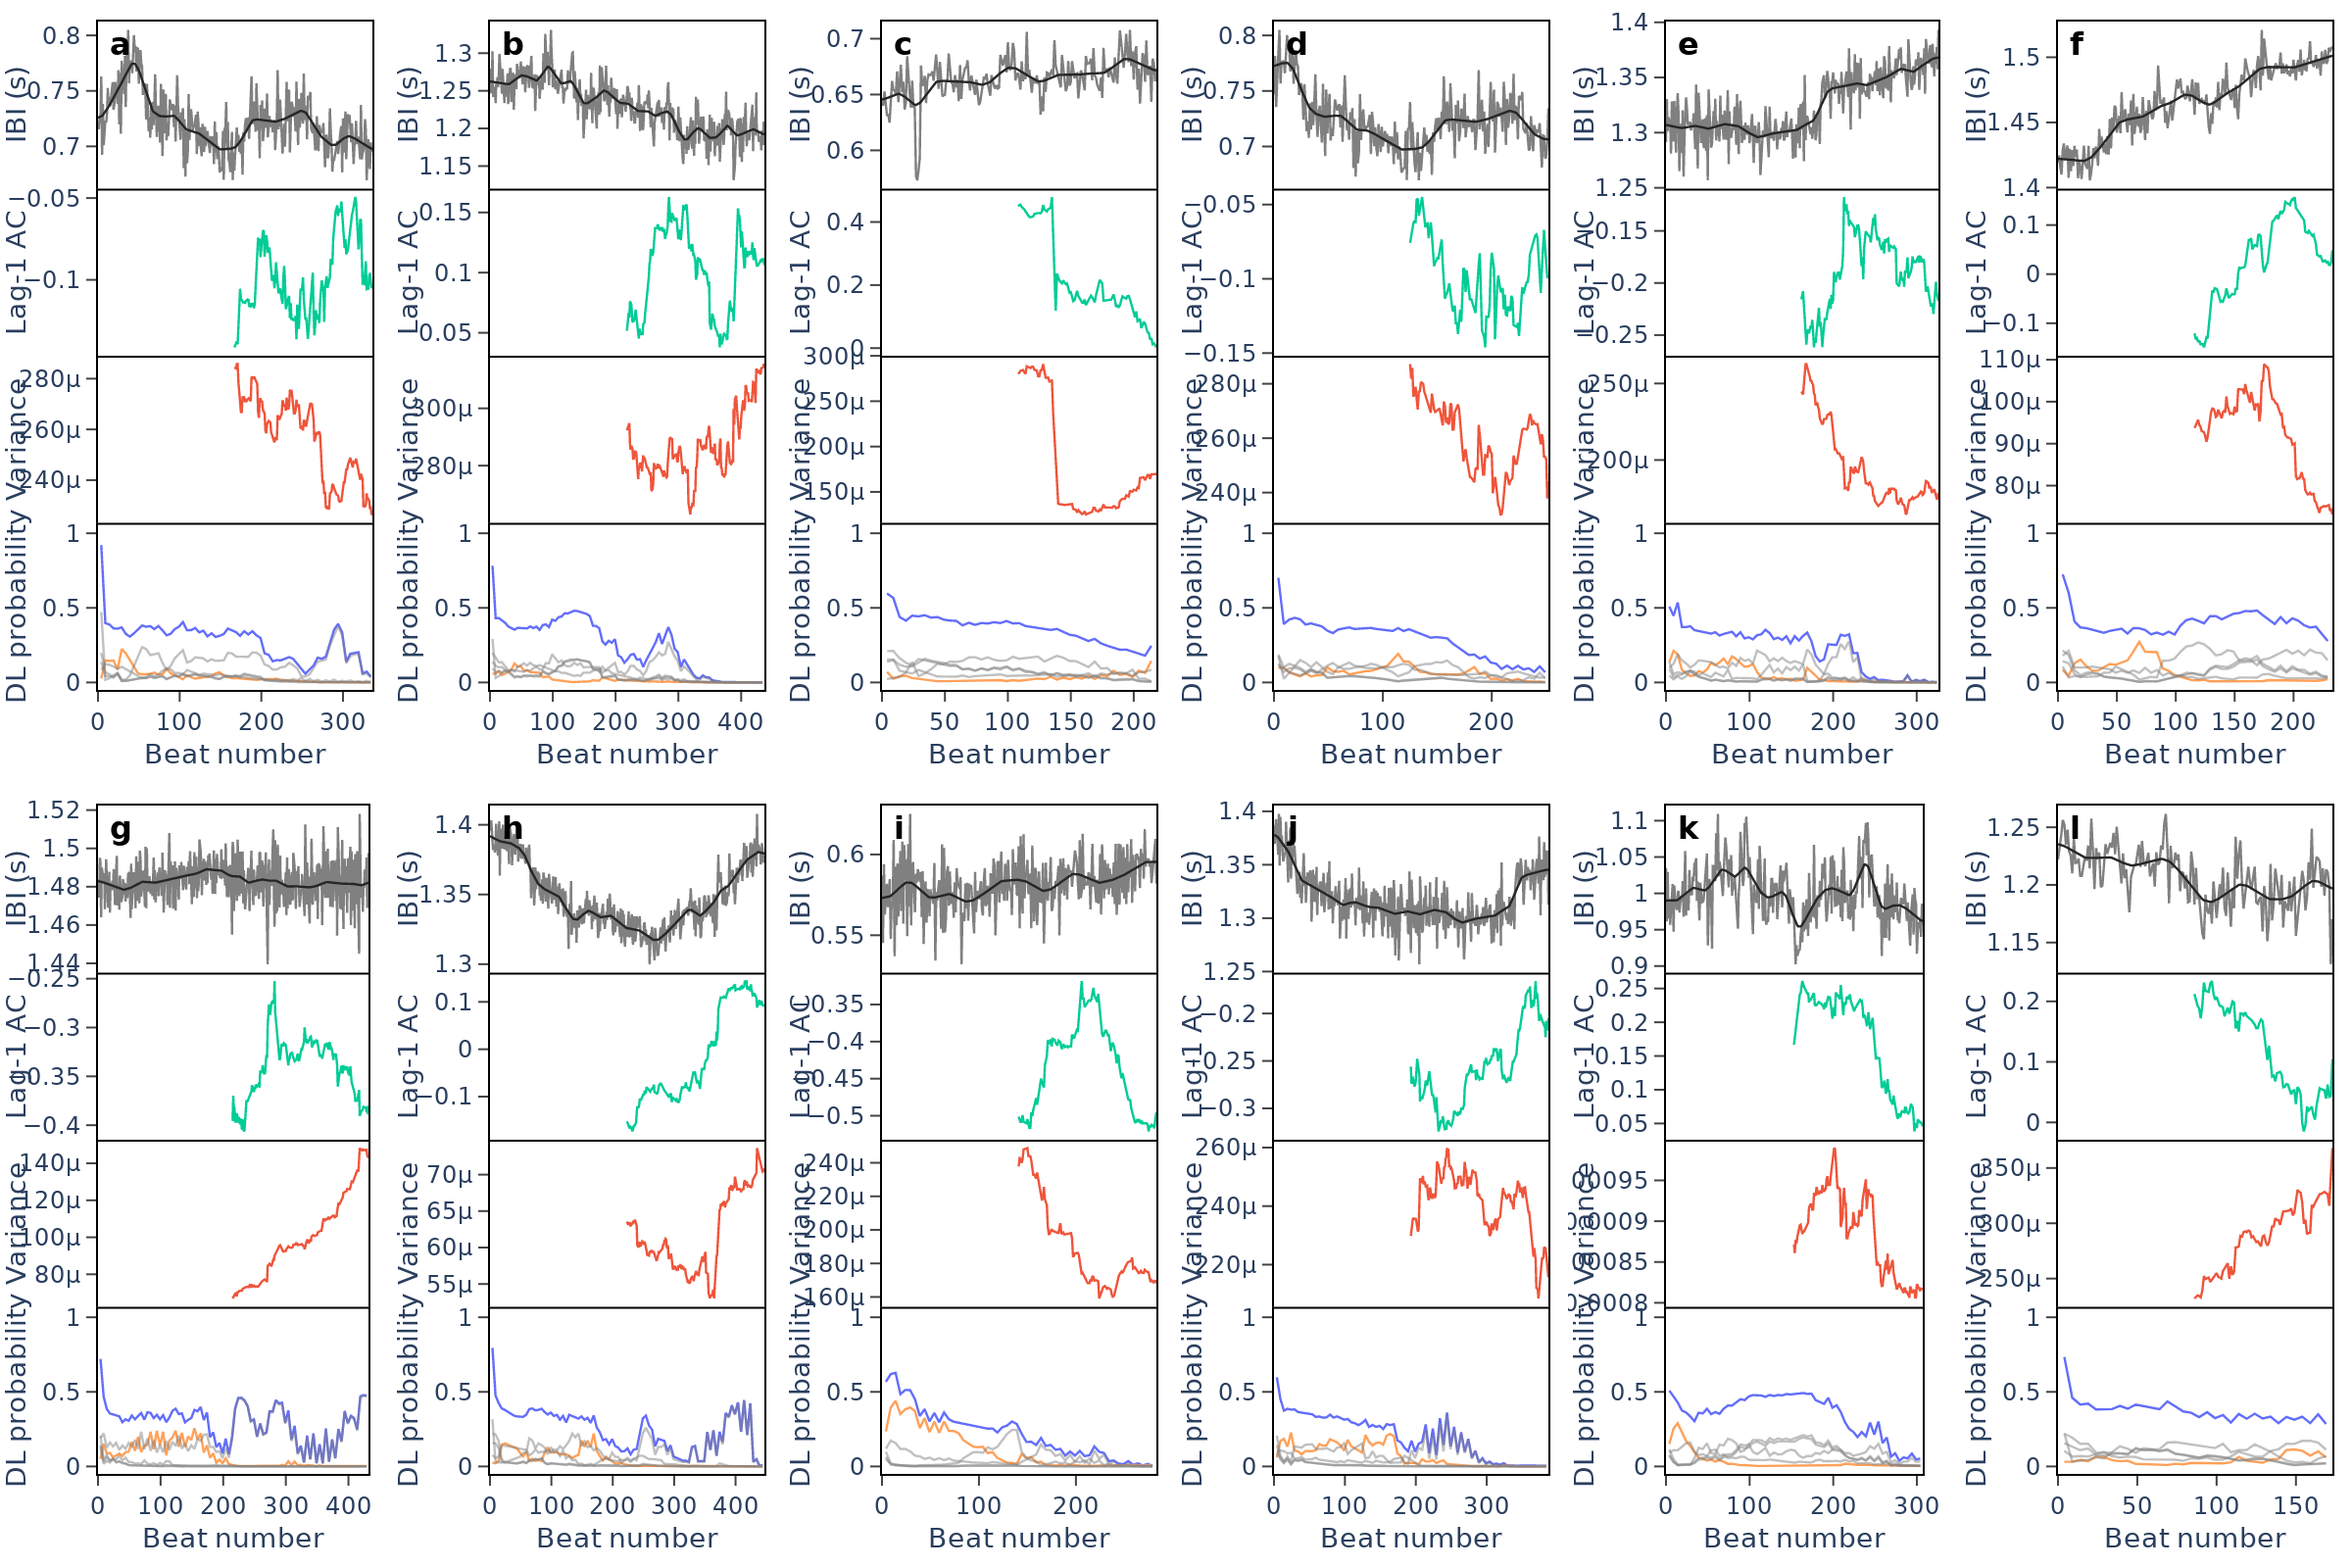
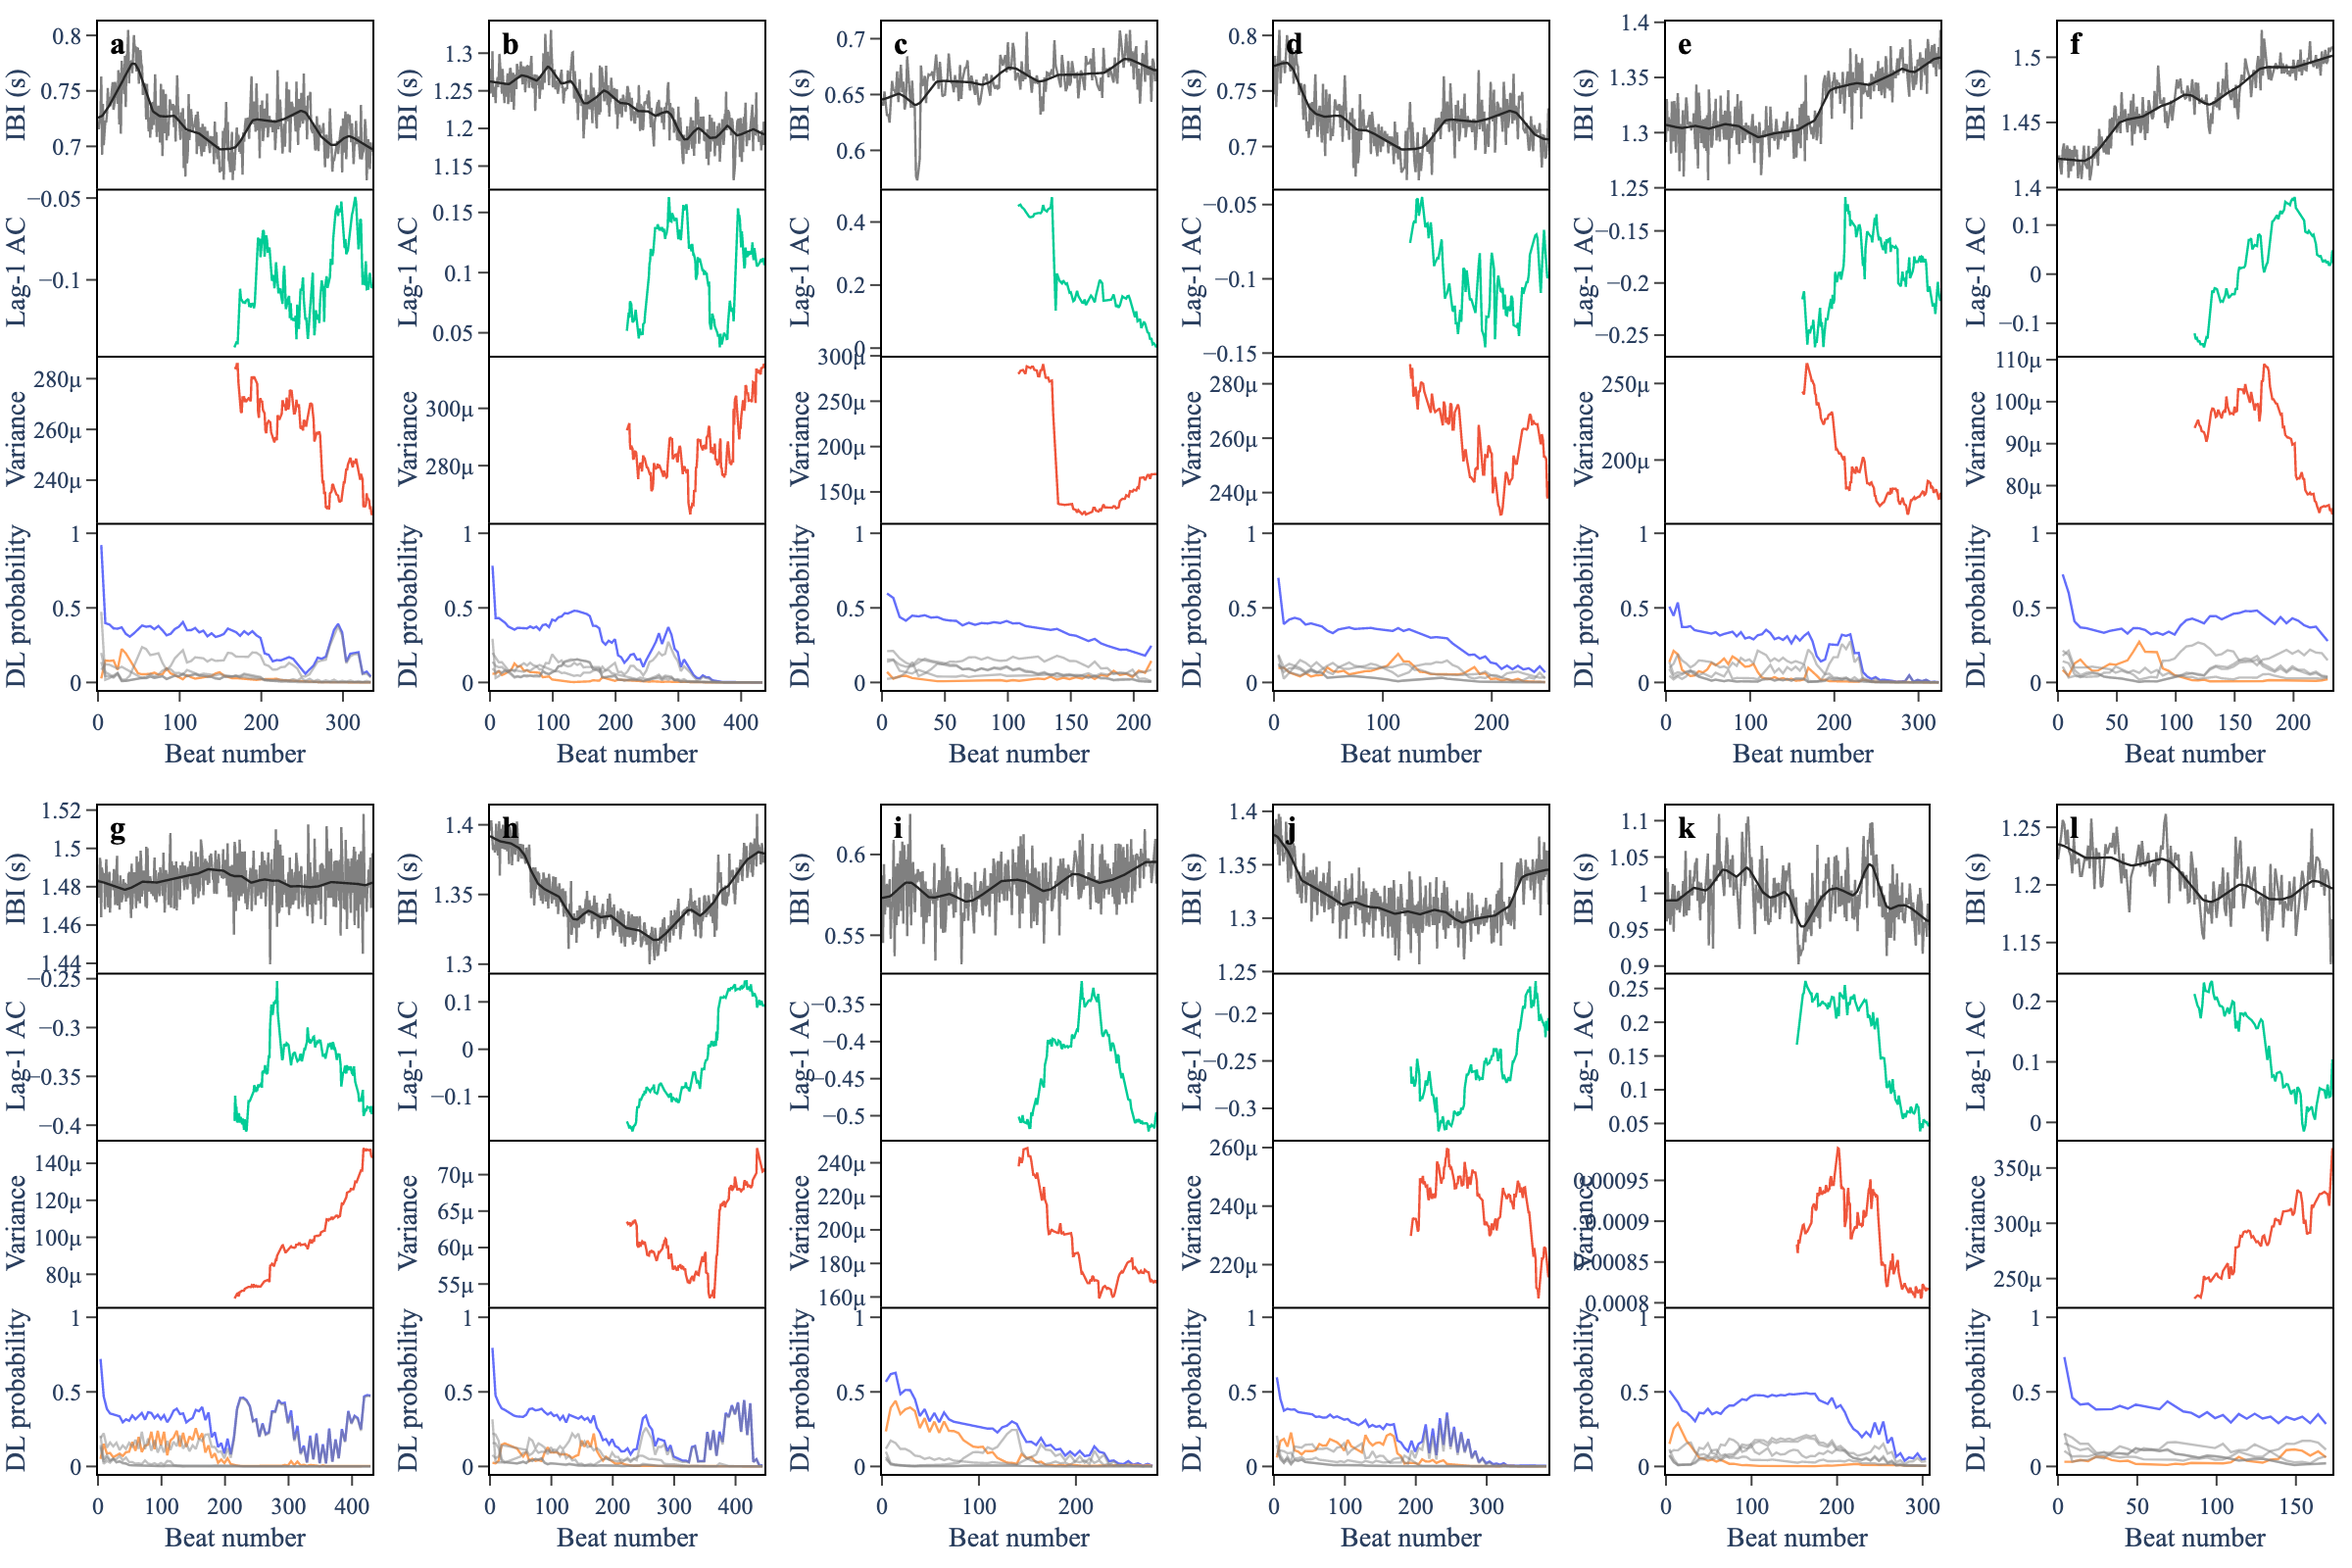
start labelling from a onwards

diff --git a/code/figure_s8_s9/make_fig.py b/code/figure_s8_s9/make_fig.py
@@ -372,7 +372,7 @@ import string
 list_letter_labels = string.ascii_lowercase[: len(list_tsid)]
 
 for i, tsid in enumerate(list_tsid):
-    letter_label = list_letter_labels[i]
+    letter_label = list_letter_labels[i % 12]
     df_ews_spec = df_ews[df_ews["tsid"] == tsid]
     df_dl_spec = df_dl_av[df_dl_av["tsid"] == tsid]
     transition = df_transitions["transition"].loc[tsid]

diff --git a/code/figure_s10_s11/make_fig.py b/code/figure_s10_s11/make_fig.py
@@ -375,7 +375,7 @@ import string
 list_letter_labels = string.ascii_lowercase[: len(list_tsid)]
 
 for i, tsid in enumerate(list_tsid):
-    letter_label = list_letter_labels[i]
+    letter_label = list_letter_labels[i % 12]
     df_ews_spec = df_ews[df_ews["tsid"] == tsid]
     df_dl_spec = df_dl_av[df_dl_av["tsid"] == tsid]
 
